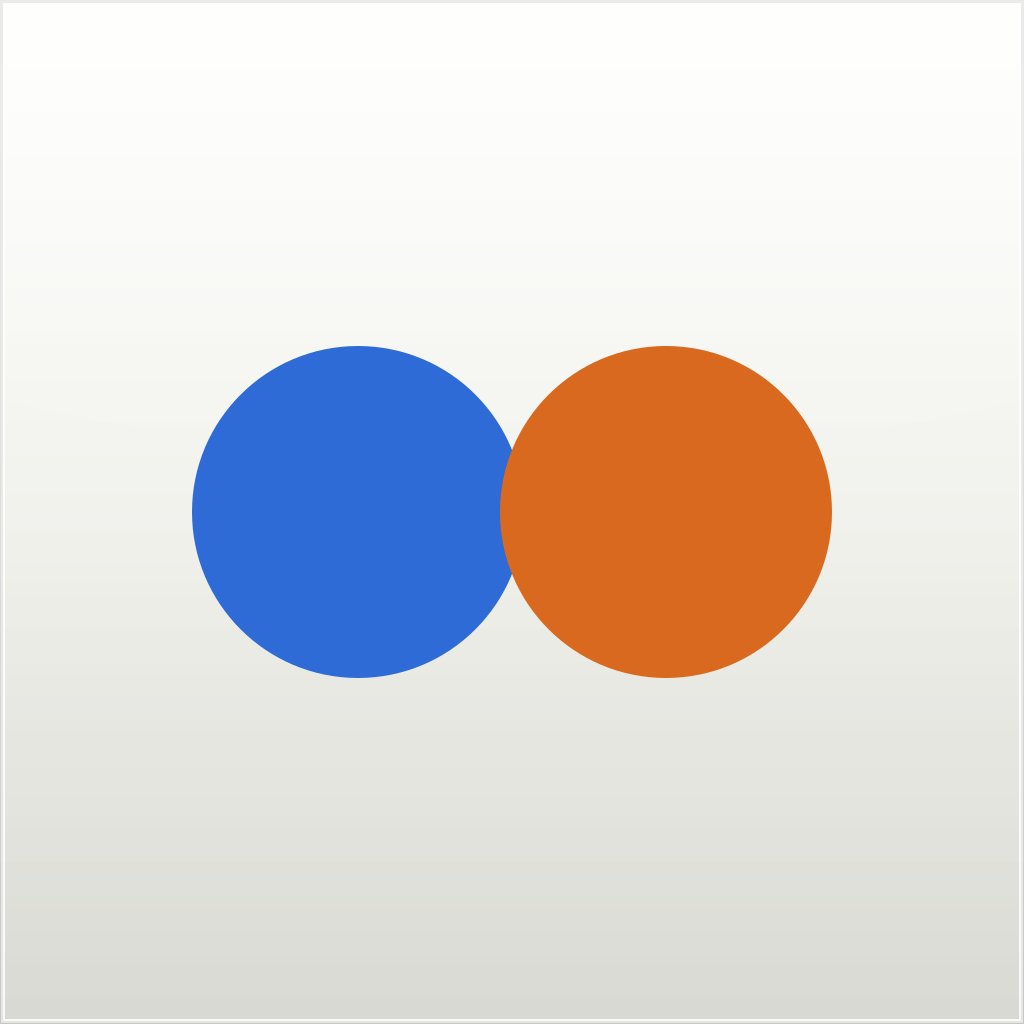
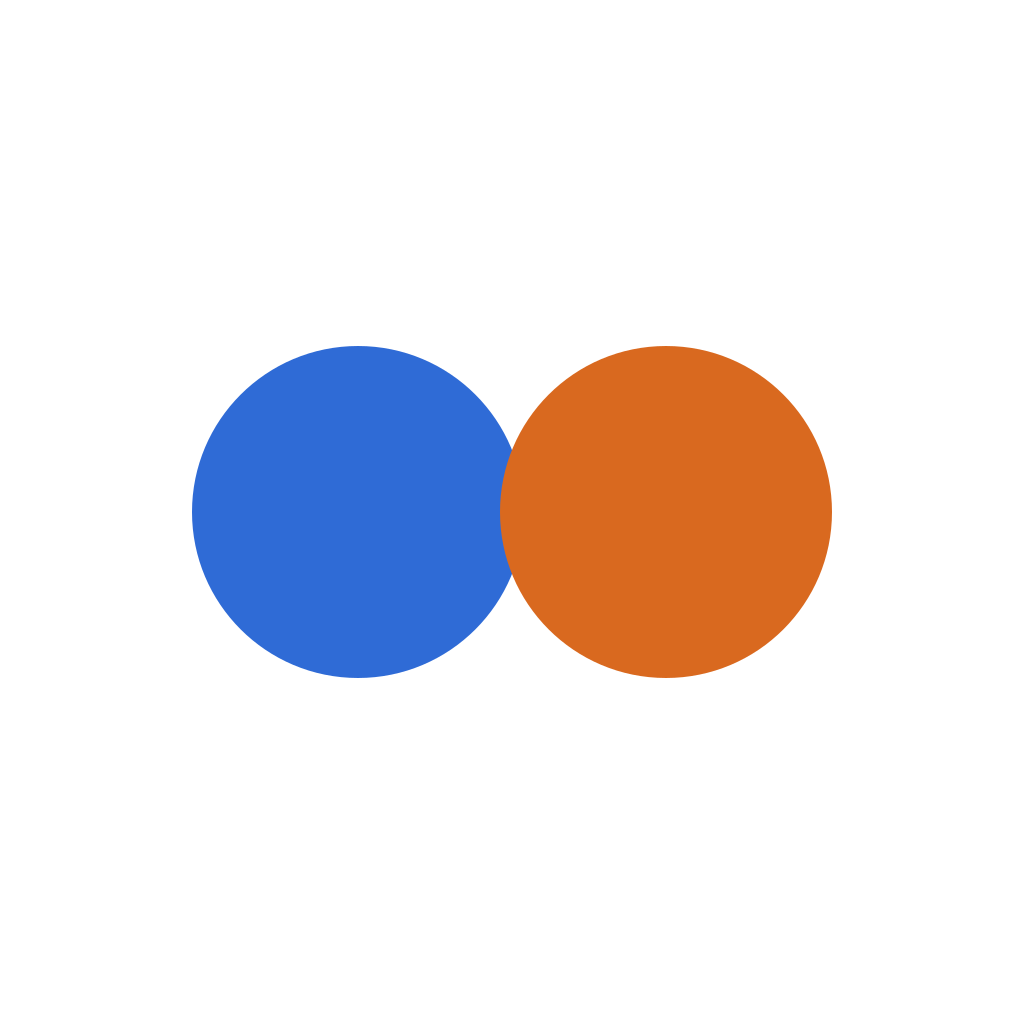
Ícones: fundo branco chapado para o sistema escurecer no modo escuro
O macOS 26 escurece na exibição os ícones de app sem variante própria,
inclusive apps web do Safari (o icns do YouTube no pacote é branco e
inalterado), mas só quando o fundo é uniforme: a nossa versão com
gradiente, reflexo e borda ficou clara no Dock em modo escuro.

Os ícones de tela de início e do manifesto passam a ser chapados (fundo
#fff + as duas bolinhas). O vidro fica por conta do sistema; o desenhado
por nós segue só nos favicons da aba.

diff --git a/scripts/gerar-icones.ts b/scripts/gerar-icones.ts
@@ -17,6 +17,12 @@ const CORES = {
   dark: { bgTop: "#2a2f37", bgBot: "#0f1216", borda: "rgba(255,255,255,0.28)", sombraBorda: "rgba(0,0,0,0.5)", gloss: 0.2, diego: "#3aa7ff", vitor: "#ff8a3d", fundoPlano: "#16191e" },
 } as const;
 
+/** Ícone chapado para o sistema compor: fundo branco uniforme + as duas bolinhas. */
+function svgChapado(): string {
+  const c = CORES.light;
+  return `<svg xmlns="http://www.w3.org/2000/svg" viewBox="0 0 1024 1024"><rect width="1024" height="1024" fill="#ffffff"/><circle cx="358" cy="512" r="166" fill="${c.diego}"/><circle cx="666" cy="512" r="166" fill="${c.vitor}"/></svg>`;
+}
+
 /**
  * Desenho em 1024×1024. `arredondado=false` entrega o quadrado inteiro (iOS e
  * o maskable do Android aplicam a própria máscara — cantos duplos ficam feios).
@@ -60,15 +66,17 @@ async function png(svg: string, size: number, arquivo: string) {
 }
 
 async function main() {
-  // Tela de início (iOS/Dock) e manifesto: variante CLARA em quadrado cheio.
-  // O sistema (iOS 18+, macOS 26) recorta, aplica o estilo do ícone e, no
-  // modo escuro, escurece sozinho o fundo de ícones sem variante própria —
-  // conferido no Dock do Diego com o app web do YouTube em 09/09. Um ícone
-  // personalizado de Finder passa por fora desse pipeline; não usar.
-  await png(svgIcone("light", { arredondado: false }), 1024, "app-icon.png");
-  await png(svgIcone("light", { arredondado: false }), 180, "apple-icon.png");
-  await png(svgIcone("light", { arredondado: false }), 512, "icon-512.png");
-  await png(svgIcone("light", { arredondado: false }), 192, "icon-192.png");
+  // Tela de início (iOS/Dock) e manifesto: ícone CHAPADO, fundo branco
+  // uniforme, quadrado cheio. O sistema (iOS 18+, macOS 26) recorta, aplica o
+  // vidro do estilo atual e, no modo escuro, escurece sozinho o fundo — mas só
+  // quando o fundo é uniforme: o app web do YouTube (fundo branco chapado)
+  // escurece no Dock do Diego; a nossa versão com gradiente, reflexo e borda
+  // ficou clara (09/09). Um ícone personalizado de Finder passa por fora
+  // desse pipeline; não usar. O vidro fica só nos favicons, onde é nosso.
+  await png(svgChapado(), 1024, "app-icon.png");
+  await png(svgChapado(), 180, "apple-icon.png");
+  await png(svgChapado(), 512, "icon-512.png");
+  await png(svgChapado(), 192, "icon-192.png");
   await png(svgIcone("dark", { mono: true }), 512, "icon-mono-512.png");
   // Favicons da aba, arredondados: o layout troca entre eles pelo tema do app.
   await png(svgIcone("light"), 96, "favicon-light.png");
